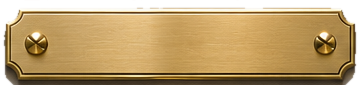
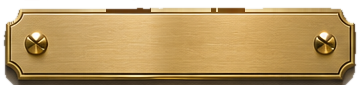
The plates lose the white cut line above them, and the glow reaches further down the case
Two things she found on the case itself.

The plates: every one of the five was cut off a light background and kept 1-4
rows of near-white along its top lip, above its own warm bevel. At 22px on the
case that is half a pixel and invisible; on the zoomed tray plate, which fills
the foot of a phone, it is a white line running the width of the brass. Each
lip is recoloured to the plate's own brass with its alpha ramp kept, so the
edge stays soft -- 1335 pale pixels down to 4 on instrumenta, and none at all
on three of the others. The plates' own bevel, gleam and screws are untouched.

The glow: the first shape died away by the third shelf, so the lower half of
the case kept the edge it always had. Measured at the left edge, the lift now
runs 28,26,22,20 top to bottom against an unlit 16-18.

Claude-Session: https://claude.ai/code/session_01KYCteMLM2FFxnmEvERSy24

Changed region(s): [[0.0611, 0.0941, 0.9472, 0.1412], [0.0, 0.2353, 0.0611, 0.2824]]

diff --git a/index.html b/index.html
@@ -79,8 +79,14 @@
     left:-8%; right:-8%; top:-5.6%; bottom:-1%;
     opacity:1; transition:opacity .45s ease;
     background:
-      radial-gradient(58% 54% at 50% 44%, rgba(120,158,214,.17), rgba(120,158,214,0) 100%),
-      radial-gradient(80% 38% at 50% 16%, rgba(120,158,214,.11), rgba(120,158,214,0) 100%); }
+      radial-gradient(60% 66% at 50% 48%, rgba(120,158,214,.17), rgba(120,158,214,0) 100%),
+      radial-gradient(80% 38% at 50% 16%, rgba(120,158,214,.10), rgba(120,158,214,0) 100%); }
+  /* The first shape was half the height of this one and died away by the third
+     shelf down, so the lower half of the case kept the edge it always had --
+     measured, the lift at the sides went 27,25,21,18 top to bottom, where 18 IS
+     the unlit case. It stays weakest at the feet on purpose: that is where the
+     ground shadow pools, and light spilling round a case would be dimmest there
+     anyway. */
   /* same reasoning as the ground shadow: a shelf that has come forward is not
      the case standing off a wall any more, so the light behind it goes with it --
      and it goes when the tray takes over, or a halo hangs round a case that has
